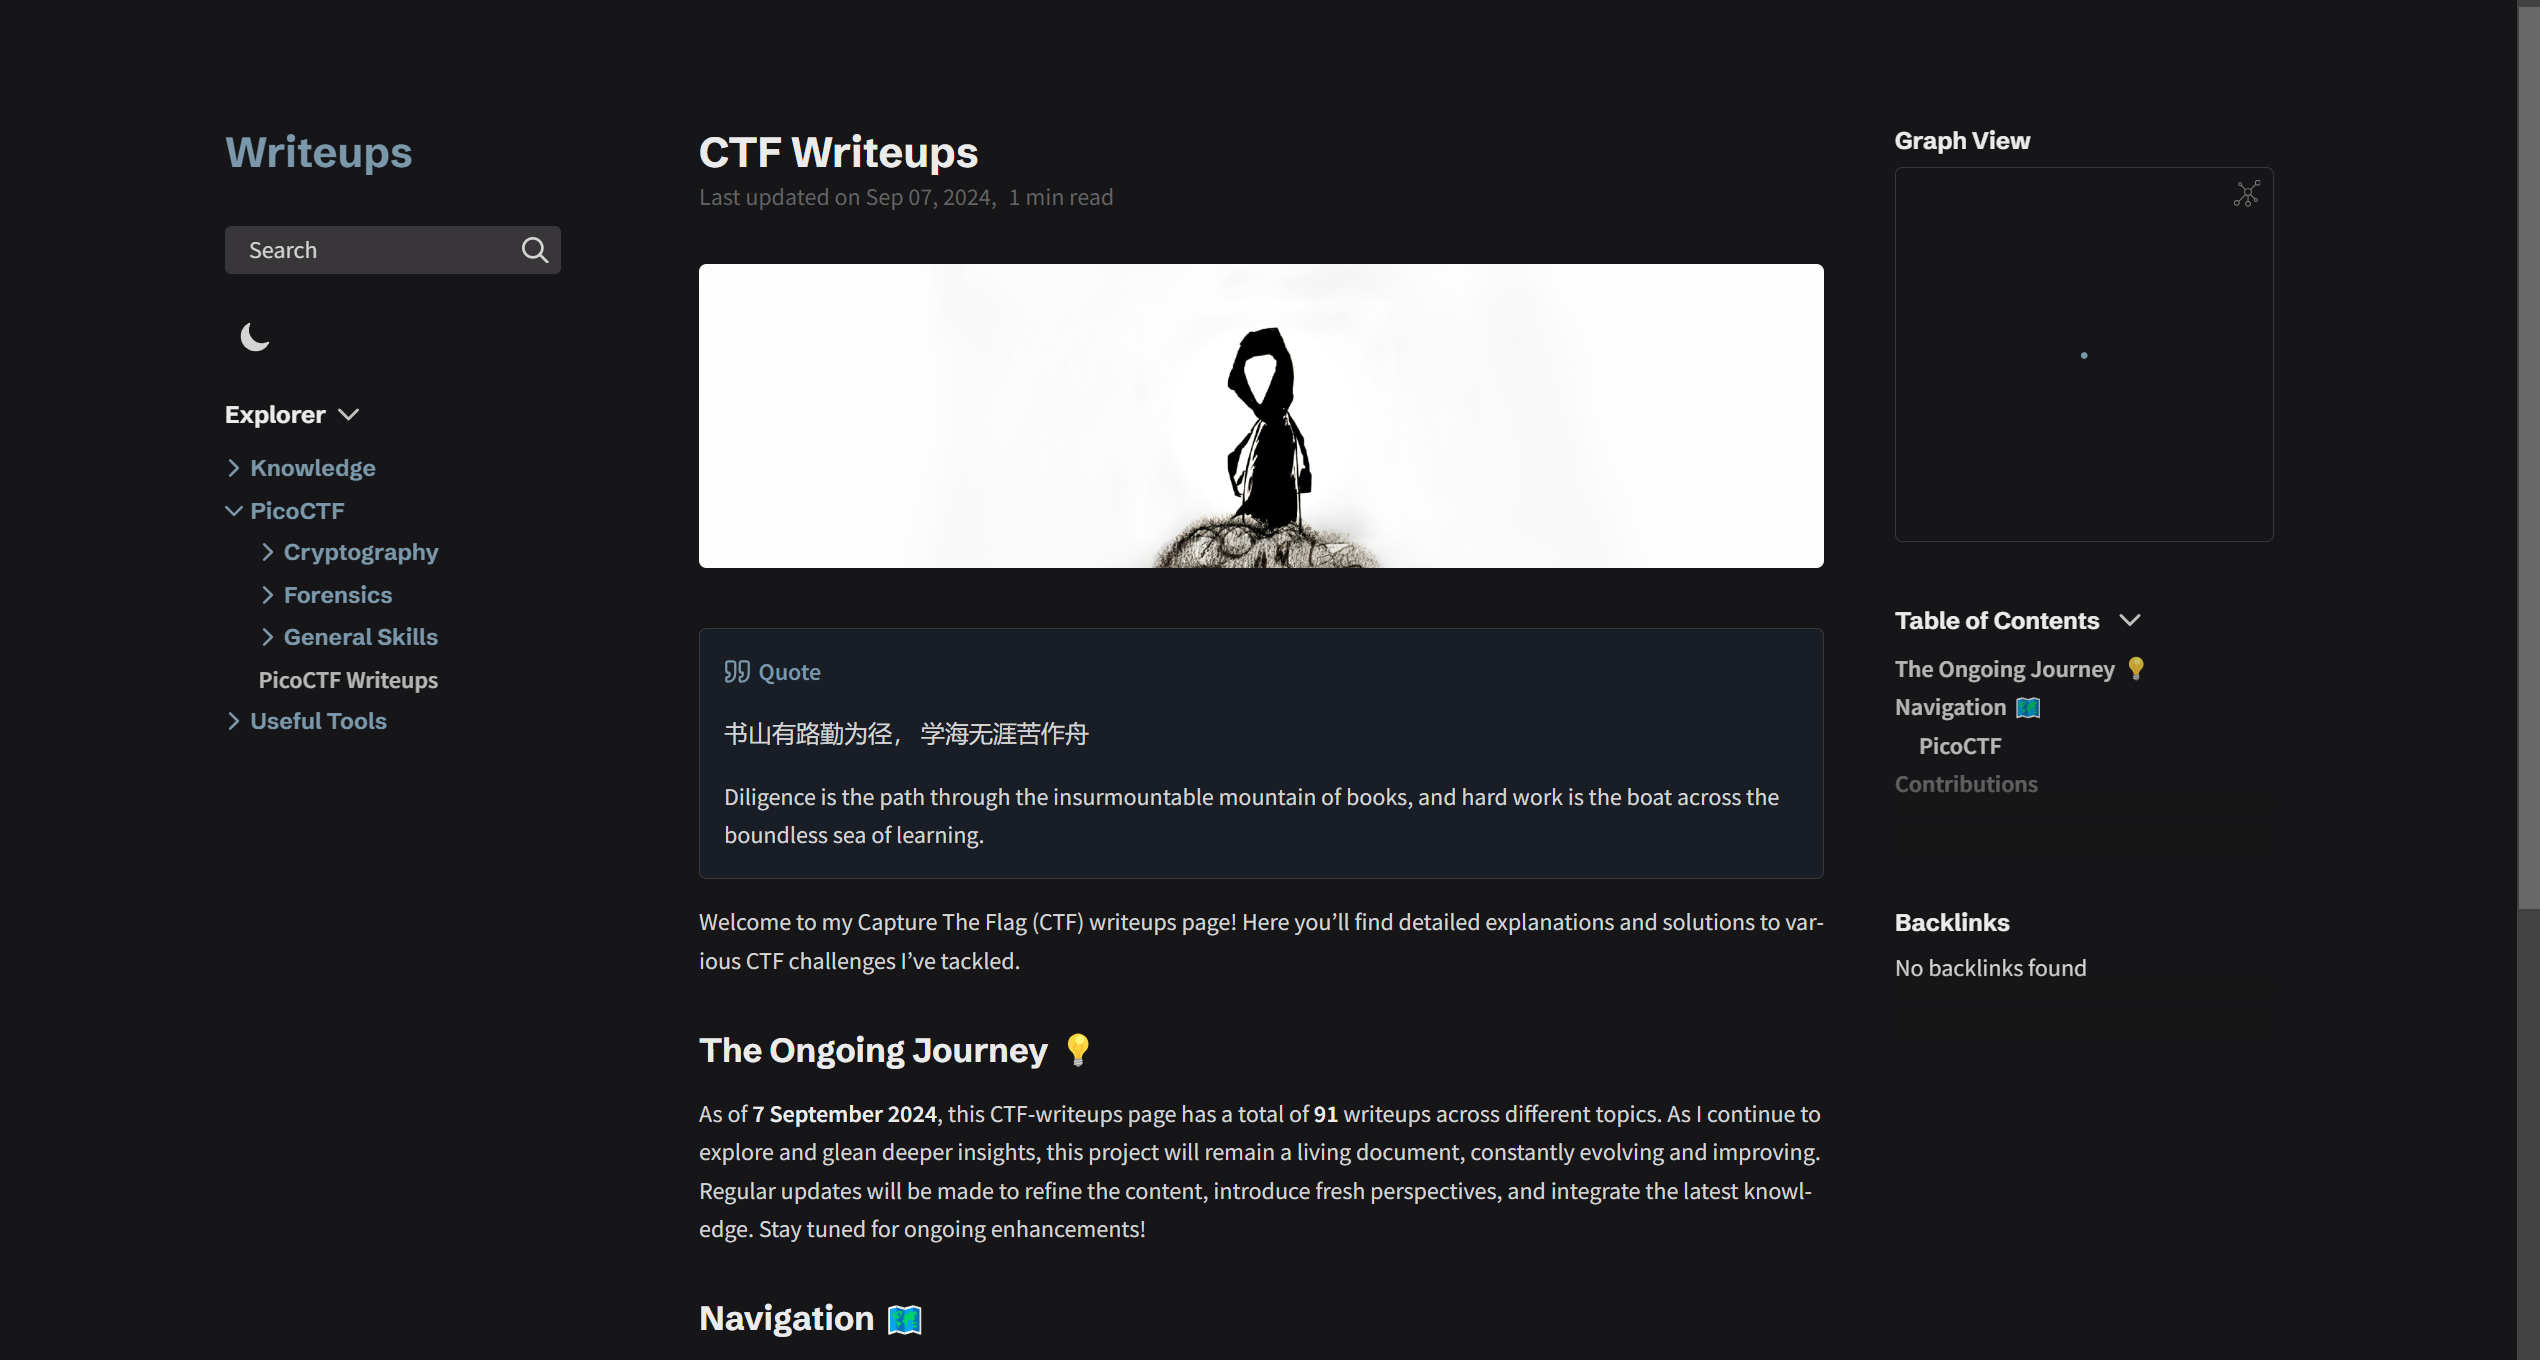
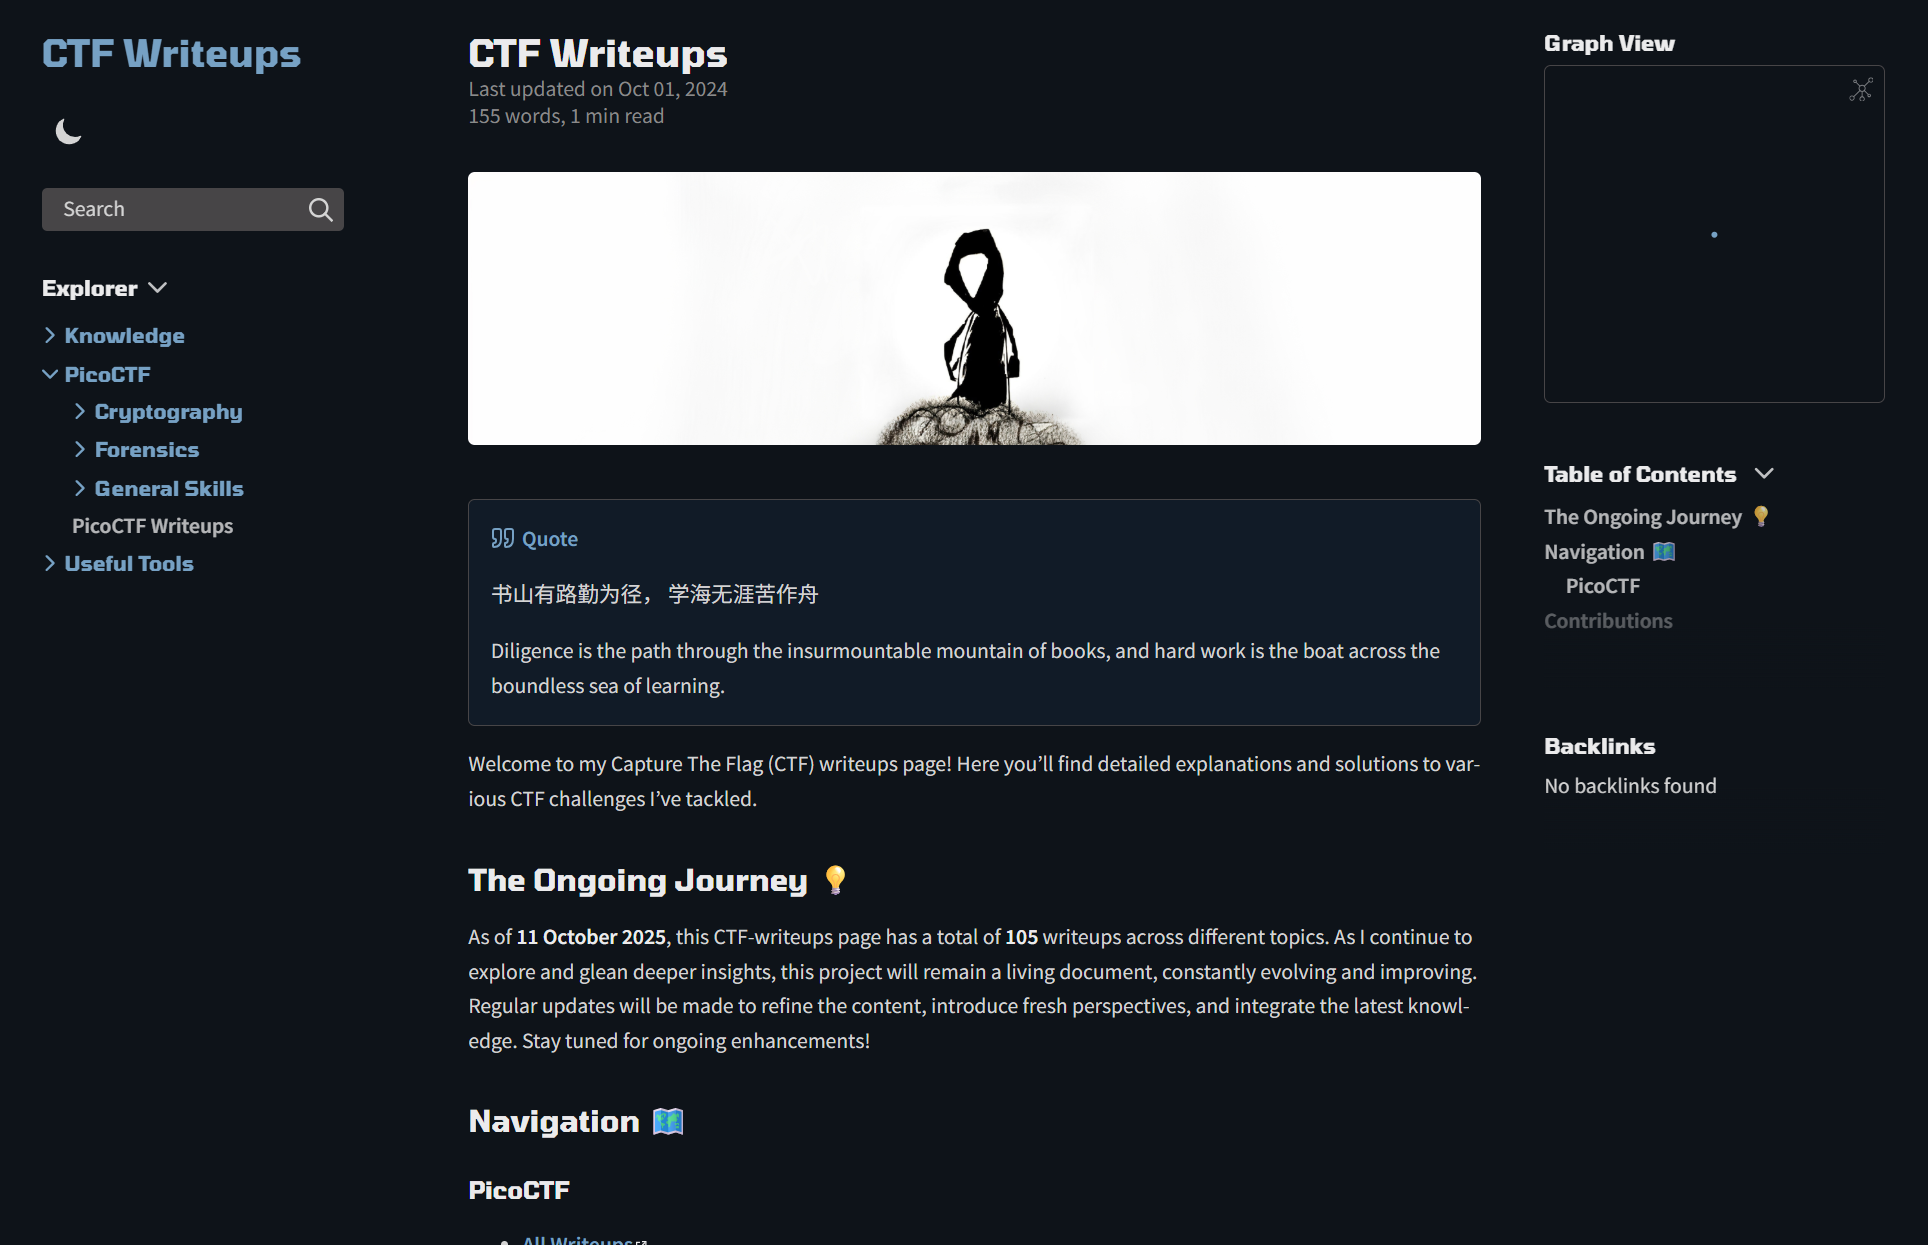
Quartz sync: Oct 11, 2025, 11:30 AM

diff --git a/quartz.config.ts b/quartz.config.ts
@@ -8,7 +8,7 @@ import * as Plugin from "./quartz/plugins"
 */
 const config: QuartzConfig = {
   configuration: {
-    pageTitle: "Blog",
+    pageTitle: "CTF Writeups",
     enableSPA: true,
     enablePopovers: true,
     analytics: {

diff --git a/.obsidian/snippets/custom.css b/.obsidian/snippets/custom.css
@@ -1,0 +1,7 @@
+code {
+    background: rgba(79, 197, 197, 0.25) !important;
+}
+
+.cm-inline-code {
+    background: rgba(79, 197, 197, 0.25) !important;
+}

diff --git a/listtags.py b/listtags.py
@@ -2,7 +2,6 @@ import os
 import glob
 import yaml
 
-# Adjust this to point at your Quartz content folder
 CONTENT_DIR = "content"
 
 def extract_tags_from_file(path):
@@ -23,11 +22,10 @@ def extract_tags_from_file(path):
                         return [tags]
             except Exception as e:
                 print(f"⚠ YAML parse error in {path}: {e}")
-    return []   # always return a list, not None
+    return []   
 
 def main():
     tag_counts = {}
-    # Scan all markdown files
     for filepath in glob.glob(os.path.join(CONTENT_DIR, "**", "*.md"), recursive=True):
         tags = extract_tags_from_file(filepath)
         for tag in tags:

diff --git a/content/index.md b/content/index.md
@@ -13,7 +13,7 @@ modified: 2024-10-01T20:51:41+08:00
 Welcome to my Capture The Flag (CTF) writeups page! Here you'll find detailed explanations and solutions to various CTF challenges I've tackled. 
 ## The Ongoing Journey 💡
 
-As of **25 September 2024**, this CTF-writeups page has a total of **105** writeups across different topics. As I continue to explore and glean deeper insights, this project will remain a living document, constantly evolving and improving. Regular updates will be made to refine the content, introduce fresh perspectives, and integrate the latest knowledge. Stay tuned for ongoing enhancements!
+As of **11 October 2025**, this CTF-writeups page has a total of **105** writeups across different topics. As I continue to explore and glean deeper insights, this project will remain a living document, constantly evolving and improving. Regular updates will be made to refine the content, introduce fresh perspectives, and integrate the latest knowledge. Stay tuned for ongoing enhancements!
 ## Navigation 🗺
 
 ### PicoCTF
